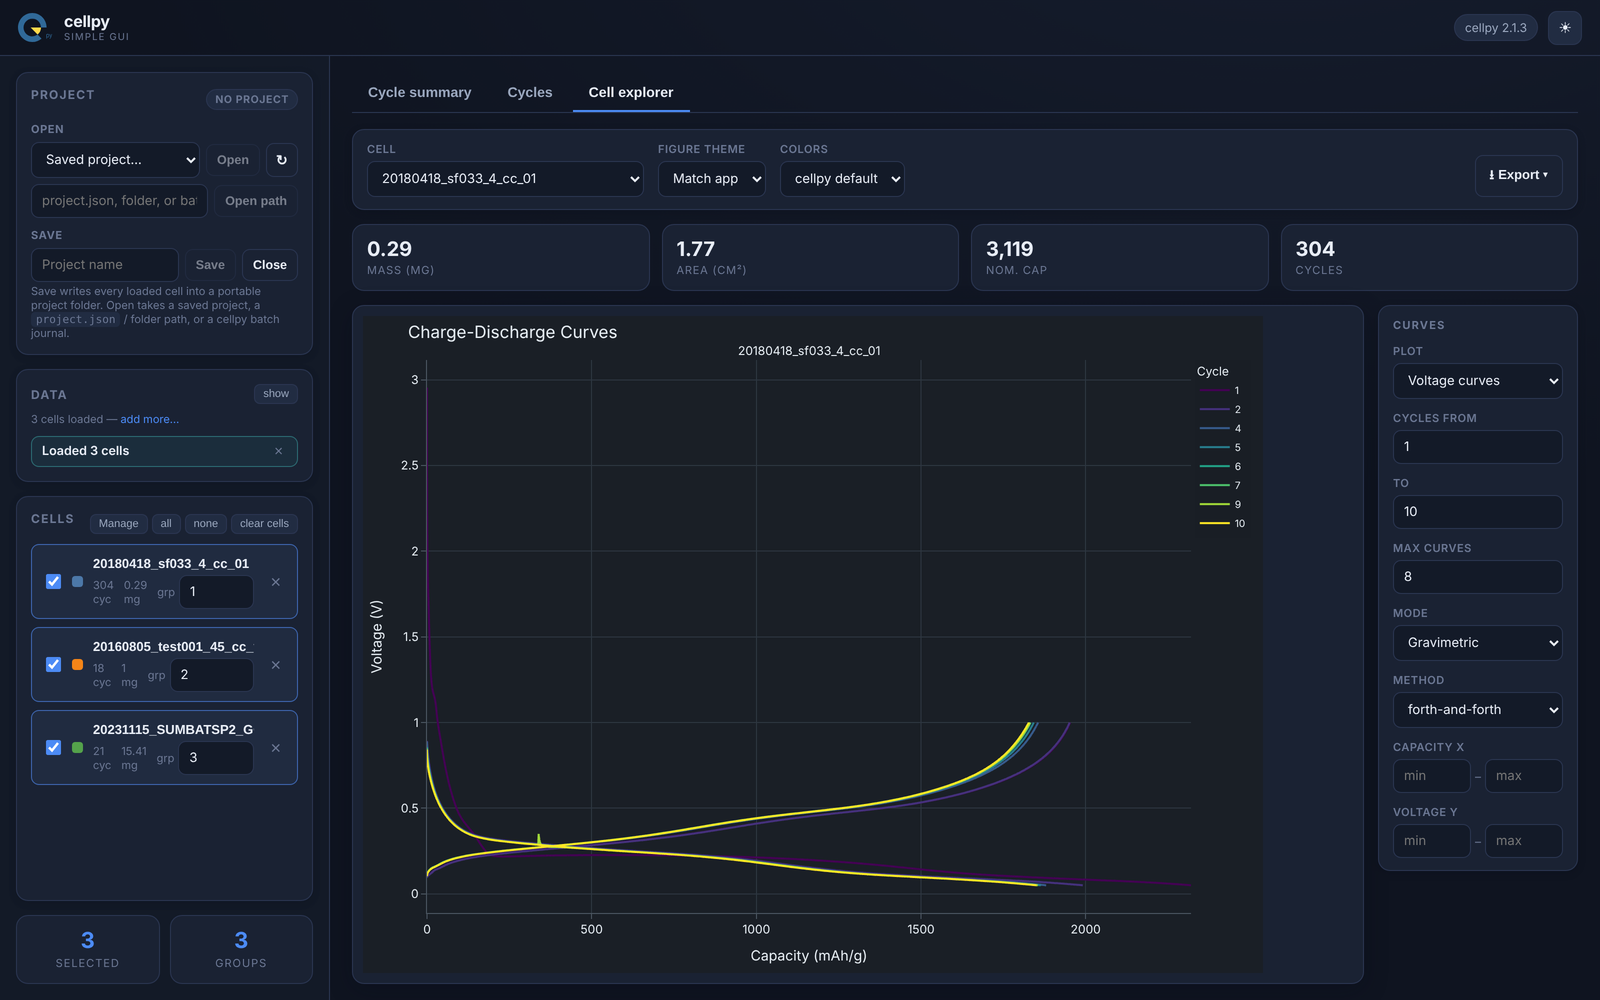
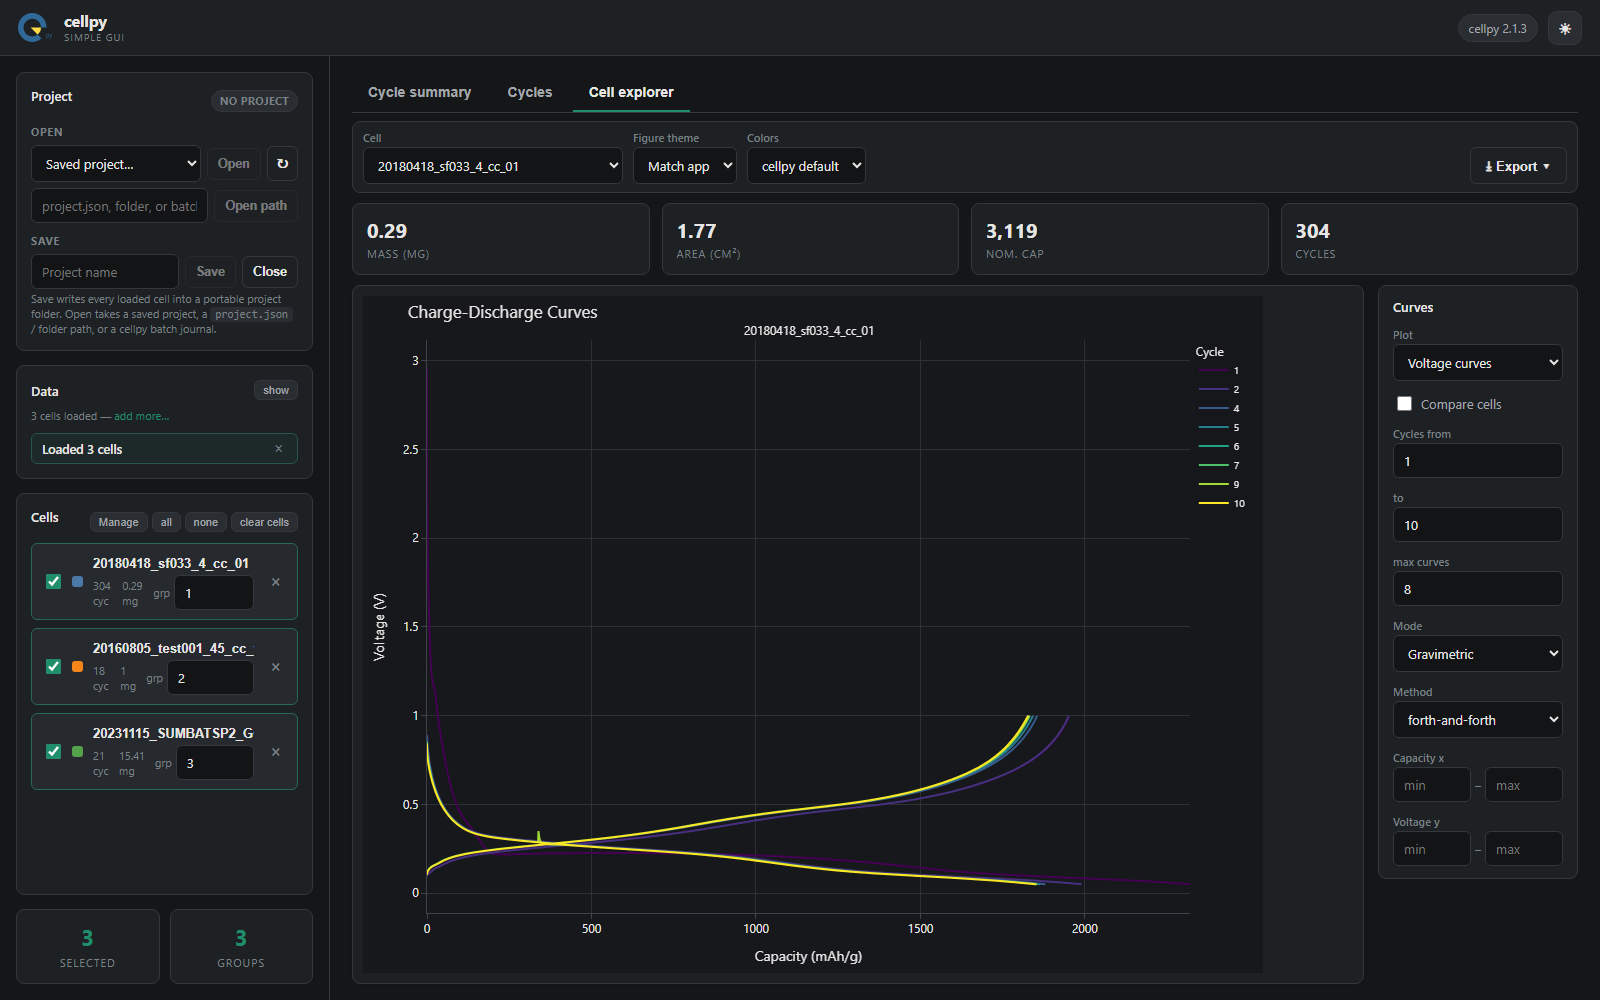
Refresh the GUI chrome to a neutral Quiet lab theme.
The navy gradient and blue plot tokens fought each other. README screenshots match the new shell, and llms-full.txt follows the current README so the agent-doc check stays green.

diff --git a/src/cellpy_simple_gui/web/static/css/app.css b/src/cellpy_simple_gui/web/static/css/app.css
@@ -2,43 +2,43 @@
    cellpy simple gui — design system
    ============================================================ */
 :root {
-  --accent: #4c8bf5;
-  --accent-2: #2fb6a3;
+  --accent: #1f8f6b;
+  --accent-2: #178066;
   --danger: #e4574f;
-  --radius: 12px;
-  --radius-sm: 8px;
+  --radius: 8px;
+  --radius-sm: 6px;
   --font: "Inter", "Segoe UI", system-ui, -apple-system, sans-serif;
-  --shadow: 0 6px 24px rgba(8, 12, 24, 0.28);
-  --shadow-sm: 0 2px 8px rgba(8, 12, 24, 0.18);
+  --shadow: 0 1px 2px rgba(16, 18, 20, 0.18);
+  --shadow-sm: none;
 }
 
-/* dark (default) */
+/* dark (default) — neutral, one teal accent (#177) */
 :root[data-theme="dark"] {
-  --bg: #0f1420;
-  --bg-2: #151c2c;
-  --panel: #1a2233;
-  --panel-2: #202b40;
-  --line: #2a3550;
-  --text: #e8edf6;
-  --text-dim: #9aa7be;
-  --text-faint: #6b7793;
-  --chip: #212c42;
-  --input: #131a28;
+  --bg: #141618;
+  --bg-2: #1b1e21;
+  --panel: #1e2124;
+  --panel-2: #262a2e;
+  --line: #34383d;
+  --text: #e7e6e4;
+  --text-dim: #a4a8ad;
+  --text-faint: #7c8186;
+  --chip: #2a2e32;
+  --input: #121416;
 }
 /* light */
 :root[data-theme="light"] {
-  --bg: #eef1f6;
-  --bg-2: #e6eaf1;
+  --bg: #f3f4f5;
+  --bg-2: #e8eaec;
   --panel: #ffffff;
-  --panel-2: #f4f6fa;
-  --line: #dfe4ec;
-  --text: #1b2333;
-  --text-dim: #5b6678;
-  --text-faint: #8b95a7;
-  --chip: #eef1f6;
+  --panel-2: #f7f8f8;
+  --line: #e1e3e5;
+  --text: #1c1f22;
+  --text-dim: #5c636b;
+  --text-faint: #8b929a;
+  --chip: #eef0f1;
   --input: #ffffff;
-  --shadow: 0 6px 20px rgba(40, 55, 90, 0.12);
-  --shadow-sm: 0 2px 8px rgba(40, 55, 90, 0.08);
+  --shadow: 0 1px 2px rgba(28, 31, 34, 0.08);
+  --shadow-sm: none;
 }
 
 * { box-sizing: border-box; }
@@ -46,7 +46,7 @@
 html, body { height: 100%; margin: 0; }
 body {
   font-family: var(--font);
-  background: radial-gradient(1200px 600px at 80% -10%, var(--bg-2), var(--bg)) fixed;
+  background: var(--bg);
   color: var(--text);
   font-size: 14px;
   -webkit-font-smoothing: antialiased;
@@ -56,8 +56,7 @@ body {
 .topbar {
   height: 56px; display: flex; align-items: center; justify-content: space-between;
   padding: 0 18px; border-bottom: 1px solid var(--line);
-  /* Transparent so the body gradient shows through (#58). */
-  background: transparent;
+  background: var(--panel);
   position: sticky; top: 0; z-index: 20;
 }
 .brand { display: flex; align-items: center; gap: 12px; }
@@ -83,7 +82,7 @@ body {
 .layout { display: grid; grid-template-columns: 330px 1fr; height: calc(100vh - 56px); }
 .sidebar {
   border-right: 1px solid var(--line); padding: 16px; display: flex; flex-direction: column;
-  gap: 14px; overflow-y: auto; background: color-mix(in srgb, var(--panel) 40%, transparent);
+  gap: 14px; overflow-y: auto; background: var(--bg);
   min-height: 0;
 }
 /* min-width: 0 — allow the grid main column to shrink so a wide Plotly
@@ -104,8 +103,8 @@ body {
   flex-direction: column;
   min-height: 220px;
 }
-.panel-title { font-size: 12px; text-transform: uppercase; letter-spacing: 1.2px;
-  color: var(--text-faint); margin: 0 0 10px; font-weight: 700; }
+.panel-title { font-size: 13px; text-transform: none; letter-spacing: 0;
+  color: var(--text); margin: 0 0 10px; font-weight: 600; }
 .panel-head { display: flex; align-items: center; justify-content: space-between; flex: none; }
 .panel-actions { display: flex; gap: 4px; }
 
@@ -118,8 +117,8 @@ body {
 .btn:hover { border-color: var(--accent); }
 .btn:disabled { opacity: .45; cursor: not-allowed; }
 .btn-primary {
-  background: linear-gradient(135deg, var(--accent), var(--accent-2));
-  border: none; color: #fff; box-shadow: var(--shadow-sm);
+  background: var(--accent);
+  border: none; color: #fff; box-shadow: none;
 }
 .btn-primary:hover { filter: brightness(1.06); }
 .btn-ghost { background: transparent; }
@@ -300,7 +299,7 @@ input:focus, select:focus { border-color: var(--accent); }
 }
 .job-actions { display: flex; gap: 6px; flex: none; margin-left: auto; }
 .progress { height: 6px; background: var(--chip); border-radius: 999px; margin-top: 10px; overflow: hidden; }
-.progress-bar { height: 100%; background: linear-gradient(90deg, var(--accent), var(--accent-2)); transition: width .3s; }
+.progress-bar { height: 100%; background: var(--accent); transition: width .3s; }
 .spinner {
   width: 15px; height: 15px; border-radius: 50%; border: 2px solid var(--line);
   border-top-color: var(--accent); animation: spin .7s linear infinite; flex: none;
@@ -344,7 +343,7 @@ input:focus, select:focus { border-color: var(--accent); }
 .stat-lbl { font-size: 11px; color: var(--text-faint); text-transform: uppercase; letter-spacing: 1px; }
 
 /* ---------- tabs ---------- */
-.tabs { display: flex; gap: 4px; margin-bottom: 16px; border-bottom: 1px solid var(--line); }
+.tabs { display: flex; gap: 4px; margin-bottom: 8px; border-bottom: 1px solid var(--line); }
 .tabs button {
   background: transparent; border: none; color: var(--text-dim); padding: 10px 16px;
   font-weight: 600; font-size: 14px; cursor: pointer; border-bottom: 2px solid transparent;
@@ -352,16 +351,16 @@ input:focus, select:focus { border-color: var(--accent); }
 .tabs button:hover { color: var(--text); }
 .tabs button.active { color: var(--text); border-bottom-color: var(--accent); }
 
-.tabpane { display: flex; flex-direction: column; gap: 14px; flex: 1; min-height: 0; }
+.tabpane { display: flex; flex-direction: column; gap: 10px; flex: 1; min-height: 0; }
 
 /* ---------- controls row ---------- */
 .controls {
-  display: flex; align-items: flex-end; gap: 14px; flex-wrap: wrap;
+  display: flex; align-items: flex-end; gap: 8px 10px; flex-wrap: wrap;
   background: var(--panel); border: 1px solid var(--line); border-radius: var(--radius);
-  padding: 12px 14px; box-shadow: var(--shadow-sm);
+  padding: 8px 10px; box-shadow: var(--shadow-sm);
 }
-.ctl { display: flex; flex-direction: column; gap: 5px; }
-.ctl label { font-size: 11px; color: var(--text-faint); font-weight: 600; text-transform: uppercase; letter-spacing: .5px; }
+.ctl { display: flex; flex-direction: column; gap: 2px; }
+.ctl label { font-size: 11px; color: var(--text-faint); font-weight: 600; text-transform: none; letter-spacing: 0; }
 .ctl select, .ctl .num { min-width: 90px; }
 .num { width: 84px; }
 .yrange-inputs { display: flex; align-items: center; gap: 4px; }
@@ -416,8 +415,8 @@ input:focus, select:focus { border-color: var(--accent); }
   max-height: calc(100vh - 56px - 24px); overflow-y: auto;
 }
 .plot-sidepane-title {
-  margin: 0; font-size: 11px; font-weight: 700; letter-spacing: 1.2px;
-  text-transform: uppercase; color: var(--text-faint);
+  margin: 0; font-size: 13px; font-weight: 600; letter-spacing: 0;
+  text-transform: none; color: var(--text);
 }
 .plot-sidepane .ctl { width: 100%; }
 .plot-sidepane .ctl select, .plot-sidepane .ctl .num { min-width: 0; width: 100%; }

diff --git a/src/cellpy_simple_gui/core/collect.py b/src/cellpy_simple_gui/core/collect.py
@@ -37,22 +37,22 @@ _THEME_TOKENS: dict[str, dict[str, str]] = {
     "light": {
         "paper_bgcolor": "white",
         "plot_bgcolor": "white",
-        "font_color": "#1f2933",
-        "gridcolor": "#eceff3",
-        "linecolor": "#c7ccd4",
-        "tickcolor": "#c7ccd4",
-        "legend_bg": "rgba(255,255,255,0.6)",
-        "annotation": "#7b8794",
+        "font_color": "#1c1f22",
+        "gridcolor": "#e8eaec",
+        "linecolor": "#d5d8dc",
+        "tickcolor": "#d5d8dc",
+        "legend_bg": "rgba(255,255,255,0.75)",
+        "annotation": "#8b929a",
     },
     "dark": {
-        "paper_bgcolor": "#1a1f26",
-        "plot_bgcolor": "#1a1f26",
-        "font_color": "#e6edf3",
-        "gridcolor": "#2d3640",
-        "linecolor": "#4a5560",
-        "tickcolor": "#4a5560",
-        "legend_bg": "rgba(26,31,38,0.75)",
-        "annotation": "#9aa5b1",
+        "paper_bgcolor": "#16181b",
+        "plot_bgcolor": "#16181b",
+        "font_color": "#e7e6e4",
+        "gridcolor": "#2c3136",
+        "linecolor": "#3e444a",
+        "tickcolor": "#3e444a",
+        "legend_bg": "rgba(22,24,27,0.8)",
+        "annotation": "#7c8186",
     },
 }
 

diff --git a/src/cellpy_simple_gui/desktop.py b/src/cellpy_simple_gui/desktop.py
@@ -95,7 +95,7 @@ def run_desktop() -> None:
         width=1360,
         height=900,
         min_size=(1024, 680),
-        background_color="#0f1420",
+        background_color="#141618",
     )
     previous, _win32_keepalive = _install_ctrl_c_close(webview)
     icon = str(_WINDOW_ICON) if _WINDOW_ICON.is_file() else None

diff --git a/.issueflows/03-solved-issues/issue177_plan.md b/.issueflows/03-solved-issues/issue177_plan.md
@@ -1,0 +1,84 @@
+# Plan — Issue #177: GUI color scheme and layout
+
+Source: https://github.com/cellpy/cellpy-simple-gui/issues/177
+
+## Goal
+
+Refresh the app chrome (colors, type, spacing, control density) so the window
+looks current, while keeping the same screens: left journal, plot tabs, chart.
+
+## Constraints
+
+- Frontend only. No API, job, or cellpy changes.
+- Keep the DOM regions tests already read: `.sidebar`, the Data hint, `.main`,
+  `.tabs`. `tests/test_api.py` checks sidebar hint text, not pixels.
+- Light and dark both move. Dark stays the default. Theme toggle and
+  `localStorage` key `csg-theme` stay.
+- Plot **figure theme** and **Colors** (cellpy / safe / muted / …) stay as they
+  are. Categorical vs gradient is [#176](https://github.com/cellpy/cellpy-simple-gui/issues/176).
+- Same information architecture unless the chosen option below says otherwise.
+- README screenshots (`docs/img/`) go stale. Update them in this issue only if
+  you ask; otherwise a follow-up.
+
+### Prior art
+
+- Theme tokens and the two-column grid live in
+  [`src/cellpy_simple_gui/web/static/css/app.css`](../../../src/cellpy_simple_gui/web/static/css/app.css)
+  (`:root[data-theme]`, `.layout` = `330px 1fr`, `.topbar`, `.tabs`).
+- Shell markup is
+  [`src/cellpy_simple_gui/web/templates/index.html`](../../../src/cellpy_simple_gui/web/templates/index.html)
+  (top bar, sidebar Project / Data / cells, main tabs).
+- Toggle is `toggleTheme()` in
+  [`src/cellpy_simple_gui/web/static/js/app.js`](../../../src/cellpy_simple_gui/web/static/js/app.js).
+  Coexist: do not replace that mechanism.
+- Closed #32 / #36 / #37 already own figure theme and plot color schemes.
+  Mirror their boundary: app chrome here, plot chrome there.
+- Toolbox: none. Graph: community "layout" is plotly figure layout, not this UI.
+
+## Approach
+
+Three layouts. **Recommended: A.** B and C rebuild the shell.
+
+### A — Quiet lab (recommended)
+
+Keep top bar + 330px sidebar + plot tabs. Change the paint and the density.
+
+- Drop the body radial gradient and the blue→teal gradient on primary buttons.
+  One accent (teal `#1f8f6b`, same family as the README badge). Neutral panels.
+- Solid top bar (the transparent bar was so the gradient showed through).
+- Slightly smaller radius, calmer borders, no uppercase panel titles.
+- Chart controls wrap in one compact row; the chart keeps the rest of the column.
+- Sidebar width stays 330px so Project / Data fields do not reflow.
+
+### B — Plot-first
+
+Sidebar collapses to an icon rail. Project, Data, and the cell list open in a
+drawer. Tabs move into the top bar. The chart fills the window. Daily cell
+selection takes an extra click.
+
+### C — Top strip
+
+No left sidebar. Project actions and the cell list become a horizontal strip
+under the top bar. Tabs and the chart sit below. Wide plots; a long cell list
+scrolls sideways.
+
+Implement only the option you accept. A is CSS plus small class tweaks in the
+template. B or C also move blocks in `index.html` and the layout rules in
+`app.js` only if a click target moves.
+
+## Files to touch
+
+- `src/cellpy_simple_gui/web/static/css/app.css` — tokens, top bar, panels, buttons, tabs, control row.
+- `src/cellpy_simple_gui/web/templates/index.html` — class hooks for the compact control row (A), or moved blocks (B/C).
+- `src/cellpy_simple_gui/web/static/js/app.js` — only if B adds a drawer open/close flag.
+
+## Test strategy
+
+`uv run pytest` from the worktree. No new pixel test. Existing API HTML checks
+must still pass. After the change, open `./run` and check dark and light on
+Cycle summary, Cycles, and Cell explorer, plus one modal (Add cells).
+
+## Open questions
+
+1. **Which layout?** A (recommended), B, or C.
+2. **README screenshots** in this issue, or later?

diff --git a/.issueflows/03-solved-issues/issue177_status.md b/.issueflows/03-solved-issues/issue177_status.md
@@ -1,0 +1,15 @@
+# Status — Issue #177
+
+- [x] Done
+
+## What's done
+
+- 2026-10-03 — Accepted layout **A (Quiet lab)**. Screenshots are in scope.
+- Chrome in `app.css`: neutral tokens, solid top bar, flat teal primary, compact controls.
+- Figure theme tokens and the desktop window background follow the same neutrals, so Match app does not leave a blue plot in a gray shell.
+- Recaptured `docs/img` (PNG gallery and `demo.gif`) against that chrome. Light shot uses Group avg + Spread.
+- Regenerated `llms-full.txt` so it matches the README heading (`Some examples`). `uv run --extra dev pytest`: the previous `test_llms_full_txt_is_current` failure is gone; `tests/test_agent_docs.py` passes. Full suite before that regen was 357 passed, 6 skipped, 1 failed.
+
+## Remaining work
+
+- None.

diff --git a/.issueflows/03-solved-issues/issue177_original.md b/.issueflows/03-solved-issues/issue177_original.md
@@ -1,0 +1,7 @@
+# Issue #177: gui color scheme and layout
+
+Source: https://github.com/cellpy/cellpy-simple-gui/issues/177
+
+## Original issue text
+
+Not too happy with the color scheme and layout of the app. Suggest several modern layouts. Pick one and implement
